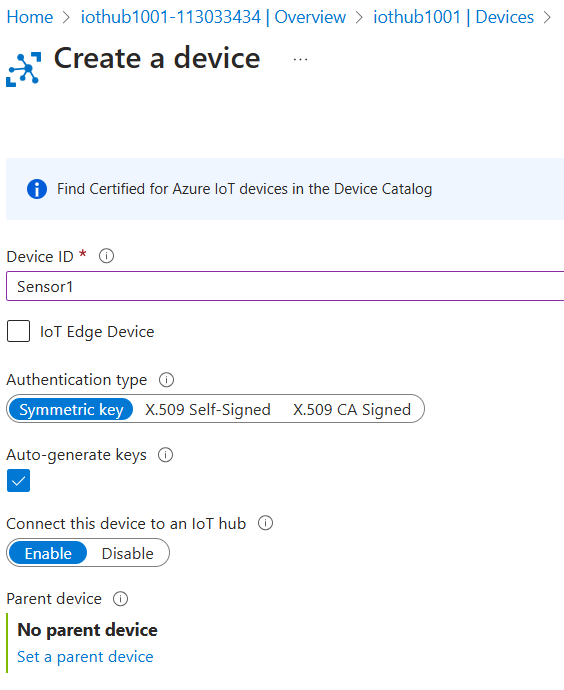
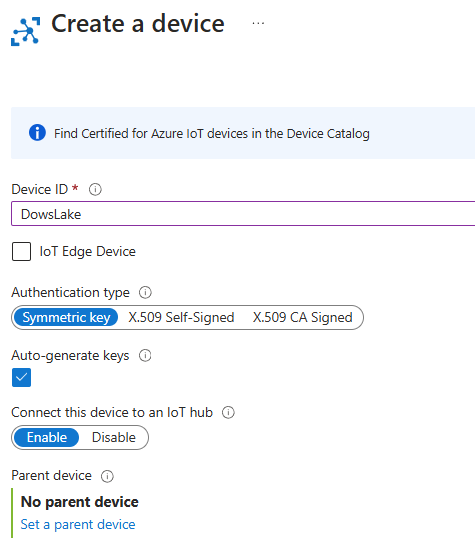
update screenshots.md

Changed region(s): [[0.0, 0.2148, 1.0, 0.9819], [0.0, 0.0, 0.6189, 0.1227], [0.6484, 0.0, 0.9432, 0.0614]]

diff --git a/screenshots/01-Screenshots.md b/screenshots/01-Screenshots.md
@@ -4,9 +4,10 @@
 
 ![IoTHub](./imgs/IoTHub.png)
 
-### 2. Add a device
+### 2. Add three devices
 
 ![CreateADevice](./imgs/CreateADevice.png)
+![threeDevices](./imgs/three-devices.png)
 
 ### 3. Copy the connection string after creating the device
 
